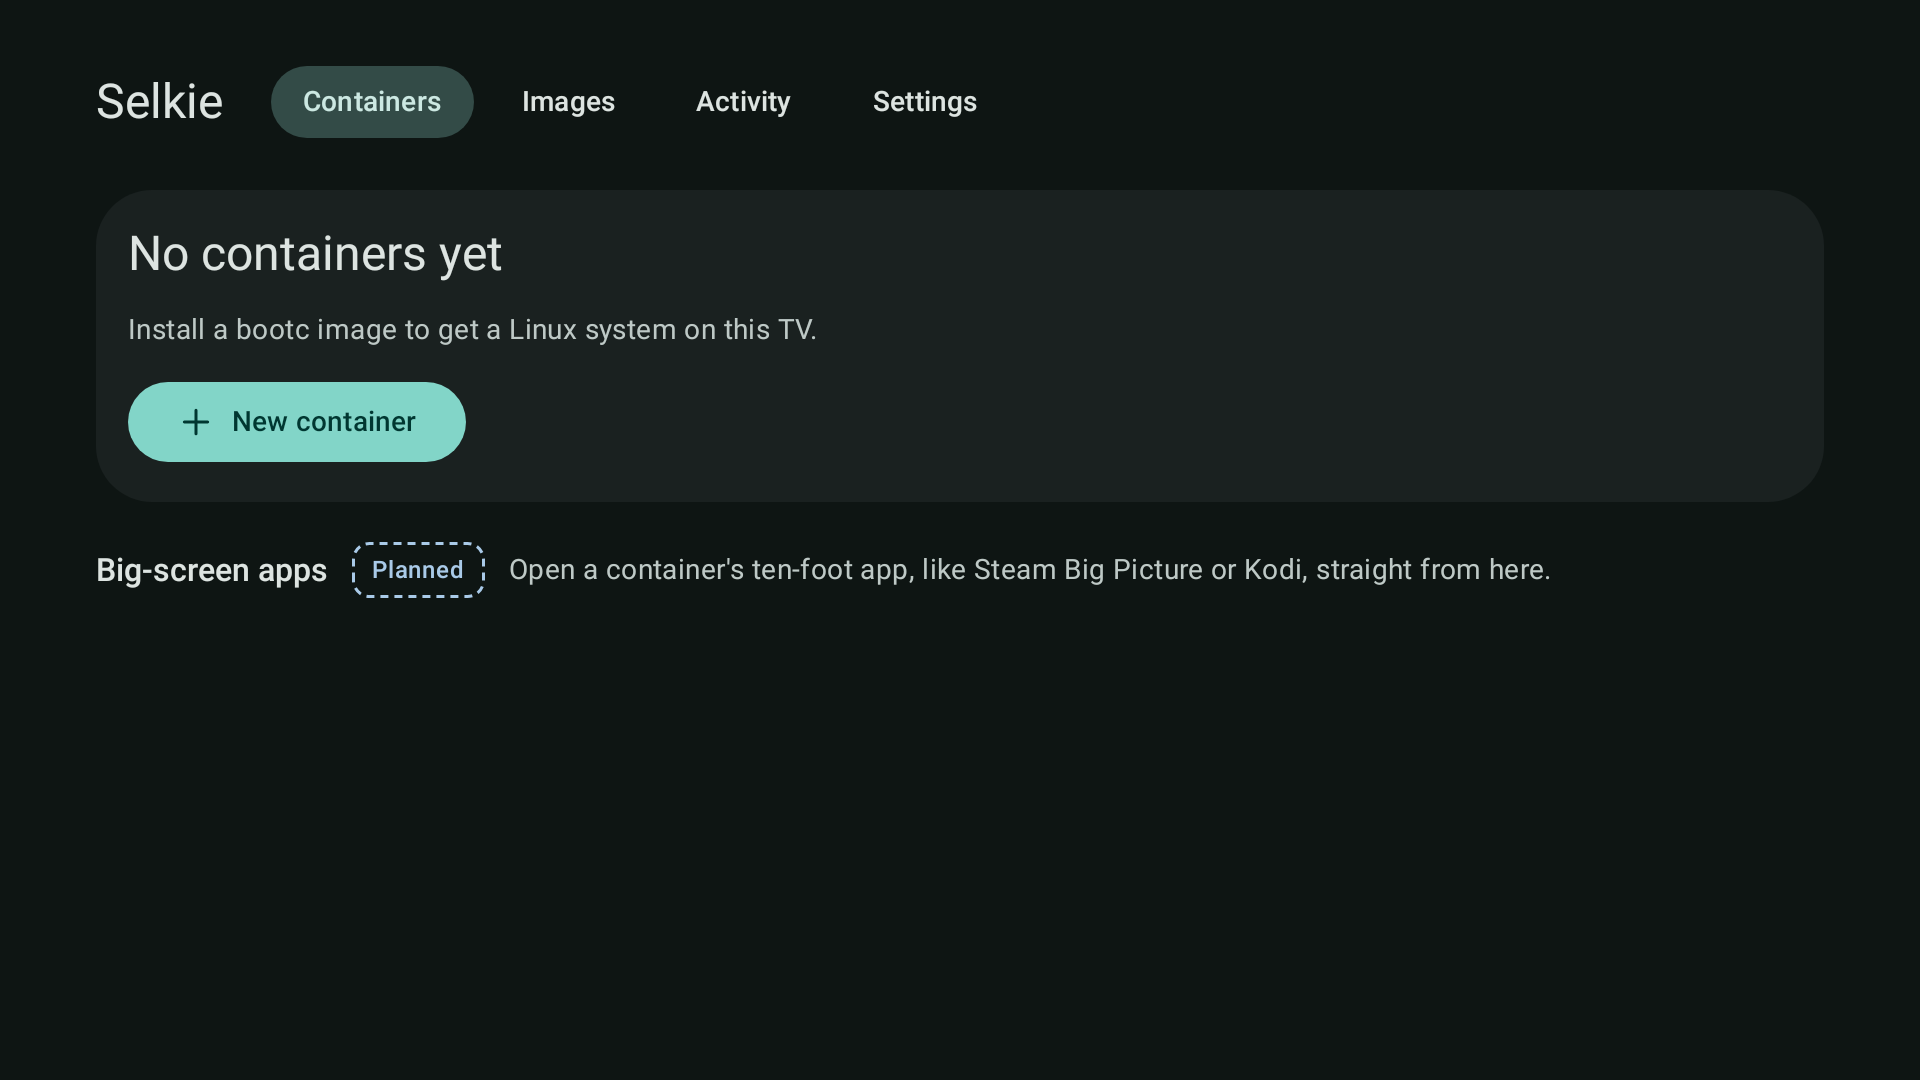
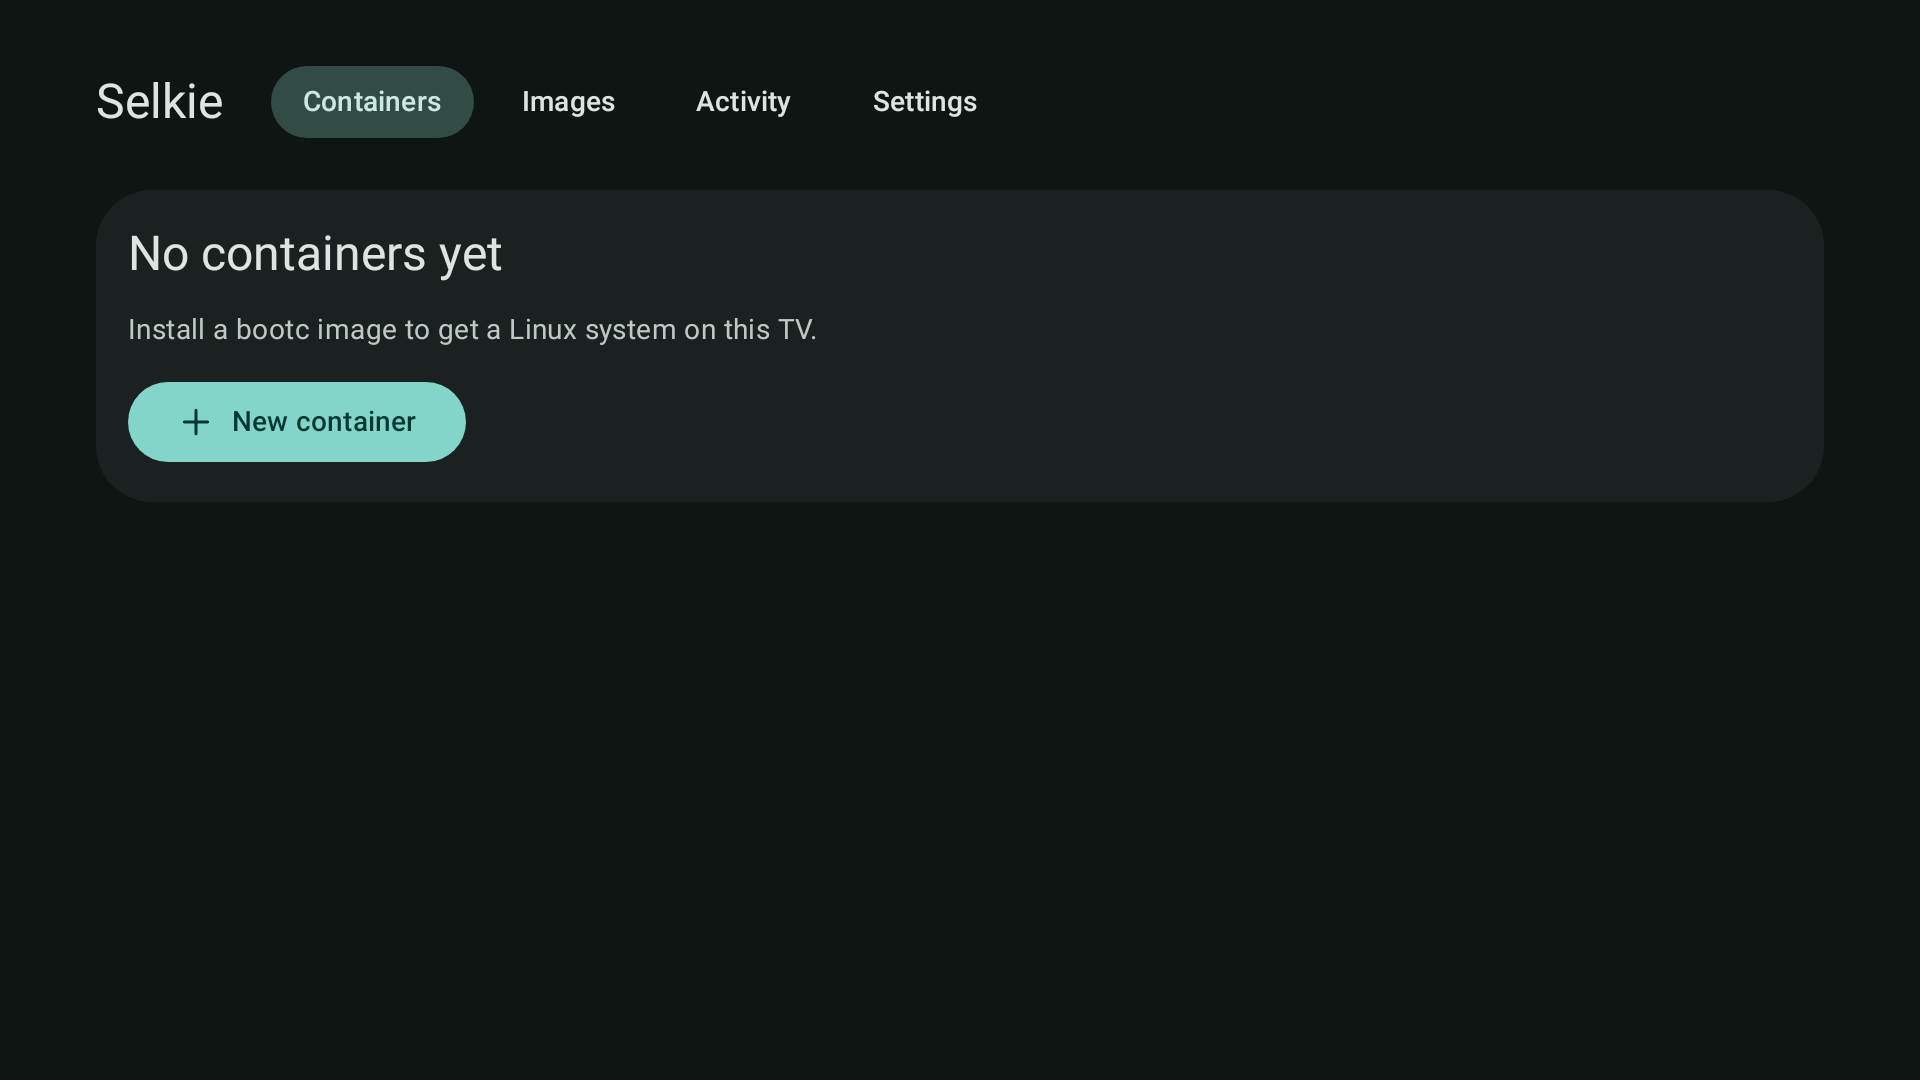
TV: a big-screen apps row from the container's apps, Steam's Big Picture first (#73)
The TV home now shows the apps of the selected container in a row, big-screen
apps (games, video, players) first, with Steam opening straight into Big
Picture. Apps that work with a remote open without the pointer gate; the rest,
the desktop and the terminal say what they need.

Changed region(s): [[0.0312, 0.5194, 0.8125, 0.55]]

diff --git a/app/src/main/kotlin/io/github/keplersj/selkie/ui/TvScreens.kt b/app/src/main/kotlin/io/github/keplersj/selkie/ui/TvScreens.kt
@@ -52,6 +52,7 @@ import androidx.compose.ui.semantics.selected
 import androidx.compose.ui.semantics.semantics
 import androidx.compose.ui.text.style.TextOverflow
 import androidx.compose.ui.unit.dp
+import io.github.keplersj.selkie.engine.AppEntry
 import io.github.keplersj.selkie.service.DesktopState
 import io.github.keplersj.selkie.service.ServiceState
 
@@ -106,6 +107,37 @@ fun rememberTvInputs(): TvInputs {
 }
 
 /** The container TV Home features: the one whose desktop runs, else the selected one, else the first. */
+/** Categories of apps made for a couch and a remote or gamepad, which open on TV without a pointer. */
+private val BIG_SCREEN_CATEGORIES = setOf("Game", "Video", "TV", "Player", "AudioVideo")
+
+/**
+ * The entry to open on a TV for [app]: its own big-screen action when it has one (Steam's Big Picture),
+ * named after it, otherwise the app itself.
+ */
+internal fun tvEntry(app: AppEntry): AppEntry {
+    val big = app.actions.firstOrNull { a ->
+        val key = (a.id + a.name).lowercase().filter { it.isLetter() }
+        "bigpicture" in key && a.argv.isNotEmpty()
+    } ?: return app
+    val name = if (big.name.startsWith(app.name)) big.name else "${app.name} ${big.name}"
+    return app.copy(name = name, argv = big.argv, actions = emptyList())
+}
+
+/** Whether [app] works with a remote or gamepad alone. */
+internal fun bigScreen(app: AppEntry): Boolean =
+    app.argv != tvEntry(app).argv || app.categories.any { it in BIG_SCREEN_CATEGORIES }
+
+/** A container's apps for the TV row: those that open on their own, big-screen ones first, at most [max]. */
+internal fun tvApps(apps: List<AppEntry>, max: Int = 10): List<AppEntry> =
+    apps.filter { appOpen(it) == AppOpen.Alone }
+        .sortedWith(compareByDescending<AppEntry> { bigScreen(it) }.thenBy { it.name.lowercase() })
+        .take(max)
+        .map(::tvEntry)
+
+/** What a TV row card says under an app's name: its container, and what it still needs to be used. */
+internal fun tvAppLine(container: String, app: AppEntry, inputs: TvInputs): String =
+    if (bigScreen(app) || inputs.pointer) "$container · ready" else "$container · needs a pointer"
+
 internal fun tvFeatured(state: ServiceState, containers: List<ContainerSummary>): ContainerSummary? =
     containers.firstOrNull { it.desktop } ?: containers.firstOrNull { it.name == state.container } ?: containers.firstOrNull()
 
@@ -218,10 +250,14 @@ fun TvHome(
     onChangeImage: () -> Unit,
     onNewContainer: () -> Unit,
     modifier: Modifier = Modifier,
+    inputs: TvInputs = TvInputs(),
+    /** Opens one app on its own; returns why it can't open, or null. */
+    onOpenApp: (AppEntry) -> String? = { null },
 ) {
     val containers = summaries(state)
     val featured = tvFeatured(state, containers)
     var stopping by remember { mutableStateOf<String?>(null) }
+    var appMessage by remember { mutableStateOf<String?>(null) }
     val first = remember { FocusRequester() }
     Column(modifier.fillMaxSize().verticalScroll(rememberScrollState()), verticalArrangement = Arrangement.spacedBy(20.dp)) {
         if (featured == null) {
@@ -244,11 +280,10 @@ fun TvHome(
                 onChangeImage = onChangeImage)
         }
 
-        Row(verticalAlignment = Alignment.CenterVertically, horizontalArrangement = Arrangement.spacedBy(12.dp)) {
-            Text("Big-screen apps", Modifier.semantics { heading() }, style = MaterialTheme.typography.titleMedium)
-            PlannedChip()
-            MutedText("Open a container's ten-foot app, like Steam Big Picture or Kodi, straight from here.")
-        }
+        if (containers.isNotEmpty()) TvAppsRow(state, inputs, appMessage,
+            onOpenApp = { app -> appMessage = onOpenApp(app) },
+            onOpenDesktop = { appMessage = null; onOpenDesktop() },
+            onOpenTerminal = { appMessage = null; onOpenTerminal() })
 
         if (containers.isNotEmpty()) Column(verticalArrangement = Arrangement.spacedBy(4.dp)) {
             Text("Containers", Modifier.semantics { heading() }, style = MaterialTheme.typography.titleMedium)
@@ -286,6 +321,70 @@ fun TvHome(
     LaunchedEffect(Unit) { runCatching { first.requestFocus() } }
     stopping?.let { name ->
         StopDesktopDialog(name, onDismiss = { stopping = null }, onConfirm = { stopping = null; onStopDesktop() })
+    }
+}
+
+/**
+ * The selected container's apps, ready to open on their own from the couch: big-screen ones (games, players,
+ * Steam's Big Picture) first, then its desktop and terminal, each saying what it still needs.
+ */
+@Composable
+private fun TvAppsRow(
+    state: ServiceState,
+    inputs: TvInputs,
+    message: String?,
+    onOpenApp: (AppEntry) -> Unit,
+    onOpenDesktop: () -> Unit,
+    onOpenTerminal: () -> Unit,
+) {
+    val container = state.container
+    val apps = state.apps?.apps?.let(::tvApps)
+    val desktop = state.graphical?.takeIf { it.configured }
+    Column(verticalArrangement = Arrangement.spacedBy(4.dp)) {
+        Row(verticalAlignment = Alignment.CenterVertically, horizontalArrangement = Arrangement.spacedBy(12.dp)) {
+            Text("Big-screen apps", Modifier.semantics { heading() }, style = MaterialTheme.typography.titleMedium)
+            MutedText(when {
+                state.appsError != null -> "Couldn't read the apps in $container: ${state.appsError}"
+                apps == null -> "Reading the apps in $container…"
+                apps.isEmpty() -> "Nothing in $container opens on its own yet."
+                else -> "From $container. Choose another container below to see its apps."
+            })
+        }
+        LazyRow(horizontalArrangement = Arrangement.spacedBy(16.dp), contentPadding = PaddingValues(vertical = 8.dp, horizontal = 4.dp)) {
+            items(apps.orEmpty(), key = { it.id + it.argv.joinToString(" ") }) { app ->
+                TvCard(title = app.name, line = tvAppLine(container, app, inputs), onClick = { onOpenApp(app) }) {
+                    AppIconView(app, size = 40.dp)
+                }
+            }
+            if (desktop != null) item(key = "desktop") {
+                TvCard(title = desktop.name?.let { "$it desktop" } ?: "Desktop",
+                    line = if (inputs.pointer) container else "$container · needs a pointer", onClick = onOpenDesktop) {
+                    Mark(style = MarkStyle.Neutral, size = 40.dp) { Icon(SelkieIcons.Desktop, null) }
+                }
+            }
+            item(key = "terminal") {
+                TvCard(title = "Terminal", line = if (inputs.keyboard) container else "$container · needs a keyboard",
+                    onClick = onOpenTerminal) {
+                    Mark(style = MarkStyle.Neutral, size = 40.dp) { Icon(SelkieIcons.Terminal, null) }
+                }
+            }
+        }
+        message?.let { Text(it, color = MaterialTheme.colorScheme.error, style = MaterialTheme.typography.bodyMedium) }
+    }
+}
+
+@Composable
+private fun TvCard(title: String, line: String, onClick: () -> Unit, mark: @Composable () -> Unit) {
+    TvFocusable(onClick = onClick, modifier = Modifier.width(260.dp)) {
+        Row(Modifier.padding(16.dp), verticalAlignment = Alignment.CenterVertically,
+            horizontalArrangement = Arrangement.spacedBy(12.dp)) {
+            mark()
+            Column {
+                Text(title, style = MaterialTheme.typography.titleMedium, maxLines = 1, overflow = TextOverflow.Ellipsis)
+                Text(line, color = MaterialTheme.colorScheme.onSurfaceVariant, style = MaterialTheme.typography.bodySmall,
+                    maxLines = 1, overflow = TextOverflow.Ellipsis)
+            }
+        }
     }
 }
 
@@ -349,15 +448,19 @@ fun TvPointerGate(
     onPair: () -> Unit,
     onOpenAnyway: () -> Unit,
     modifier: Modifier = Modifier,
+    /** The app being opened on its own, or null for the desktop. */
+    app: String? = null,
 ) {
     val first = remember { FocusRequester() }
     Column(modifier.fillMaxSize().padding(horizontal = TV_H, vertical = TV_V), verticalArrangement = Arrangement.Center) {
         Column(Modifier.widthIn(max = 640.dp), verticalArrangement = Arrangement.spacedBy(20.dp)) {
             Mark(style = MarkStyle.Tertiary, size = 56.dp) { Icon(SelkieIcons.Desktop, null) }
-            Text(sessionName?.let { "The $it desktop needs a pointer" } ?: "This desktop needs a pointer", Modifier.semantics { heading() },
+            Text(app?.let { "$it needs a pointer" } ?: sessionName?.let { "The $it desktop needs a pointer" }
+                ?: "This desktop needs a pointer", Modifier.semantics { heading() },
                 style = MaterialTheme.typography.headlineMedium)
-            MutedText("A remote can't move a mouse cursor. Connect a mouse or trackpad and the desktop opens " +
-                "on its own." + if (inputs.keyboard) " Your keyboard works there too." else "")
+            MutedText("A remote can't move a mouse cursor. Connect a mouse or trackpad and " +
+                (if (app != null) "$app opens" else "the desktop opens") + " on its own." +
+                if (inputs.keyboard) " Your keyboard works there too." else "")
             Column(verticalArrangement = Arrangement.spacedBy(12.dp)) {
                 TvButton("Pair a Bluetooth mouse or keyboard", onPair, Modifier.focusRequester(first),
                     icon = SelkieIcons.Keyboard, primary = true)

diff --git a/app/src/main/kotlin/io/github/keplersj/selkie/MainActivity.kt b/app/src/main/kotlin/io/github/keplersj/selkie/MainActivity.kt
@@ -147,12 +147,13 @@ class MainActivity : ComponentActivity() {
         val setSpace = rememberXrSpace()
         var xrDesktop by remember { mutableStateOf(false) }
         var xrTerminal by remember { mutableStateOf(false) }
-        val showCompositor: () -> Unit = {
-            if (full) xrDesktop = true else screen = if (tv && !inputs.pointer) "tv-pointer" else "desktop"
+        // On TV without a mouse, a desktop or pointer-driven app first explains it needs one; big-screen apps don't.
+        val showCompositor: (Boolean) -> Unit = { needsPointer ->
+            if (full) xrDesktop = true else screen = if (tv && needsPointer && !inputs.pointer) "tv-pointer" else "desktop"
         }
         // The whole desktop, unless one is already running (an app left prepared but never opened is dropped).
-        val openDesktop: () -> Unit = { service.prepareDesktop(); showCompositor() }
-        val openApp: (AppEntry) -> String? = { app -> service.prepareApp(app) ?: run { showCompositor(); null } }
+        val openDesktop: () -> Unit = { service.prepareDesktop(); showCompositor(true) }
+        val openApp: (AppEntry) -> String? = { app -> service.prepareApp(app) ?: run { showCompositor(!bigScreen(app)); null } }
         val openTerminal: () -> Unit = { if (full) xrTerminal = true else screen = "terminal" }
         // In a car, Selkie is parked-only: while driving one screen stands in for all of it.
         val driving = rememberCarDriving()
@@ -197,7 +198,7 @@ class MainActivity : ComponentActivity() {
                     BackHandler { screen = "auto" }
                     // Pairing a mouse from the gate carries on into the desktop.
                     LaunchedEffect(inputs.pointer) { if (inputs.pointer) screen = "desktop" }
-                    TvPointerGate(state.graphical?.name, inputs,
+                    TvPointerGate(state.graphical?.name, inputs, app = state.desktopApp?.name,
                         onPair = {
                             runCatching { ctx.startActivity(Intent(android.provider.Settings.ACTION_BLUETOOTH_SETTINGS)) }
                                 .onFailure { runCatching { ctx.startActivity(Intent(android.provider.Settings.ACTION_SETTINGS)) } }
@@ -264,7 +265,9 @@ class MainActivity : ComponentActivity() {
                                 onOpenTerminal = openTerminal,
                                 onStopDesktop = { service.stopDesktop() },
                                 onChangeImage = { screen = "change" },
-                                onNewContainer = newContainer)
+                                onNewContainer = newContainer,
+                                inputs = inputs,
+                                onOpenApp = openApp)
                             else HomeScreen(state,
                                 onOpenTerminal = openTerminal,
                                 onOpenDesktop = openDesktop,

diff --git a/app/src/main/kotlin/io/github/keplersj/selkie/ui/Previews.kt b/app/src/main/kotlin/io/github/keplersj/selkie/ui/Previews.kt
@@ -142,6 +142,18 @@ object Fixtures {
     ), hidden = List(9) { HiddenApp("helper$it.desktop", reason = "no-display") } +
         List(3) { HiddenApp("old$it.desktop", reason = "not-installed") })
     val homeApps = homeInstalled.copy(apps = apps)
+    /** A games-and-media container's apps, for the TV row: Steam's Big Picture and Kodi lead. */
+    val tvApps = AppList(container = "dev", apps = listOf(
+        AppEntry(id = "steam.desktop", name = "Steam", comment = "Application for managing and playing games on Steam",
+            categories = listOf("Network", "FileTransfer", "Game"), argv = listOf("steam"),
+            path = "/usr/share/applications/steam.desktop",
+            actions = listOf(AppAction("Store", "Store", listOf("steam", "steam://store")),
+                AppAction("BigPicture", "Big Picture", listOf("steam", "steam://open/bigpicture")))),
+        AppEntry(id = "org.xbmc.kodi.desktop", name = "Kodi", comment = "Manage and view your media",
+            categories = listOf("AudioVideo", "Video", "Player", "TV"), origin = AppOrigin.FLATPAK,
+            argv = listOf("/usr/bin/flatpak", "run", "tv.kodi.Kodi"),
+            path = "/var/lib/flatpak/exports/share/applications/tv.kodi.Kodi.desktop"),
+    ) + apps.apps)
     val homeError = ServiceState(statusLoaded = true,
         statusError = "droidc exited with code 101: state.json: unexpected end of file")
 
@@ -551,13 +563,13 @@ private val tvRemote = TvInputs(gamepad = true)
 private fun TvHomeFrame(state: ServiceState, inputs: TvInputs = tvRemote) = PreviewFrame {
     TvScaffold(Section.Containers, onSection = {}, inputs = inputs) {
         TvHome(state, onSelectContainer = {}, onOpenDesktop = noop, onOpenTerminal = noop, onStopDesktop = noop,
-            onChangeImage = noop, onNewContainer = noop)
+            onChangeImage = noop, onNewContainer = noop, inputs = inputs)
     }
 }
 
 @TvPreview
 @Composable
-fun TvHomePreview() = TvHomeFrame(Fixtures.homeContainers, TvInputs(gamepad = true, keyboard = true))
+fun TvHomePreview() = TvHomeFrame(Fixtures.homeContainers.copy(apps = Fixtures.tvApps), TvInputs(gamepad = true, keyboard = true))
 
 /** Nothing running: the selected container is featured with its terminal. */
 @TvPreview
@@ -581,6 +593,13 @@ fun TvImagesPreview() = PreviewFrame {
 @Composable
 fun TvPointerGatePreview() = PreviewFrame {
     TvPointerGate("GNOME", TvInputs(gamepad = true), onPair = noop, onOpenAnyway = noop)
+}
+
+/** An app that wants a pointer (Files), opened from the TV row with only a remote. */
+@TvPreview
+@Composable
+fun TvPointerGateAppPreview() = PreviewFrame {
+    TvPointerGate("GNOME", TvInputs(gamepad = true), onPair = noop, onOpenAnyway = noop, app = "Files")
 }
 
 @TvPreview

diff --git a/app/src/test/kotlin/io/github/keplersj/selkie/ui/TvAppsTest.kt b/app/src/test/kotlin/io/github/keplersj/selkie/ui/TvAppsTest.kt
@@ -1,0 +1,39 @@
+package io.github.keplersj.selkie.ui
+
+import io.github.keplersj.selkie.engine.AppAction
+import io.github.keplersj.selkie.engine.AppEntry
+import org.junit.Assert.assertEquals
+import org.junit.Assert.assertFalse
+import org.junit.Assert.assertTrue
+import org.junit.Test
+
+class TvAppsTest {
+    private fun app(name: String, vararg categories: String) =
+        AppEntry(id = "$name.desktop", name = name, categories = categories.toList(), argv = listOf(name.lowercase()),
+            path = "/usr/share/applications/$name.desktop")
+
+    private val steam = app("Steam", "Network", "Game").copy(actions = listOf(
+        AppAction("Store", "Store", listOf("steam", "steam://store")),
+        AppAction("BigPicture", "Big Picture", listOf("steam", "steam://open/bigpicture"))))
+
+    @Test fun bigPictureIsWhatATvOpens() {
+        val e = tvEntry(steam)
+        assertEquals("Steam Big Picture", e.name)
+        assertEquals(listOf("steam", "steam://open/bigpicture"), e.argv)
+        assertEquals(app("Files"), tvEntry(app("Files")))
+    }
+
+    @Test fun bigScreenAppsLeadAndNeedNoPointer() {
+        val files = app("Files", "Utility")
+        val kodi = app("Kodi", "AudioVideo", "Player")
+        val htop = app("Htop", "System").copy(terminal = true)
+        val row = tvApps(listOf(files, htop, kodi, steam))
+        assertEquals(listOf("Kodi", "Steam Big Picture", "Files"), row.map { it.name })
+        assertTrue(bigScreen(steam))
+        assertTrue(bigScreen(kodi))
+        assertFalse(bigScreen(files))
+        assertEquals("dev · ready", tvAppLine("dev", kodi, TvInputs()))
+        assertEquals("dev · needs a pointer", tvAppLine("dev", files, TvInputs()))
+        assertEquals("dev · ready", tvAppLine("dev", files, TvInputs(pointer = true)))
+    }
+}
